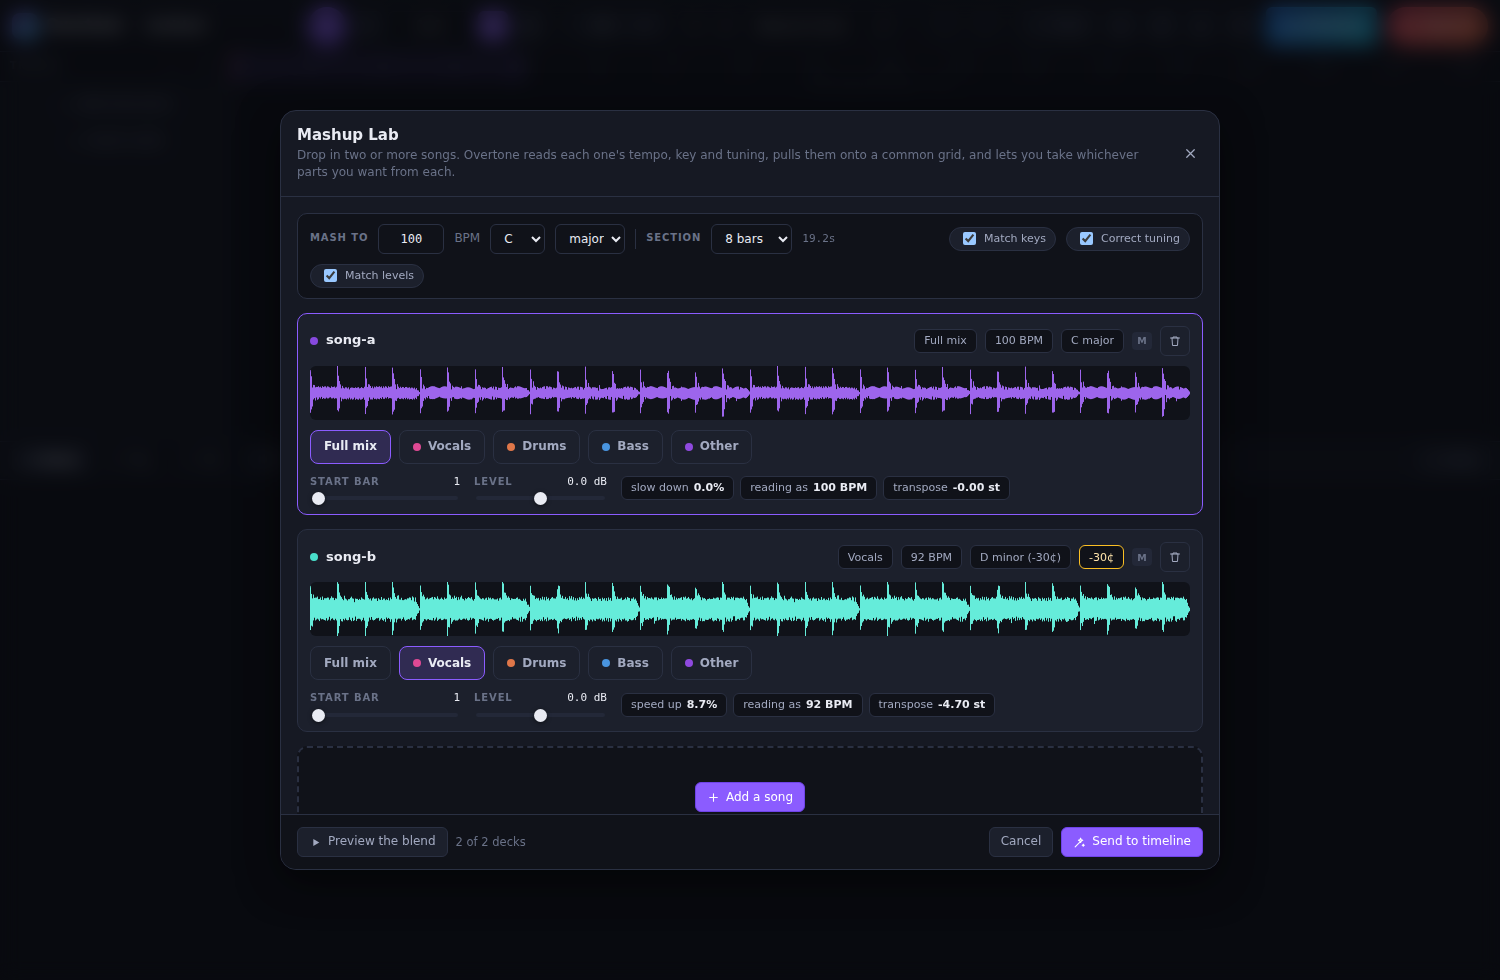
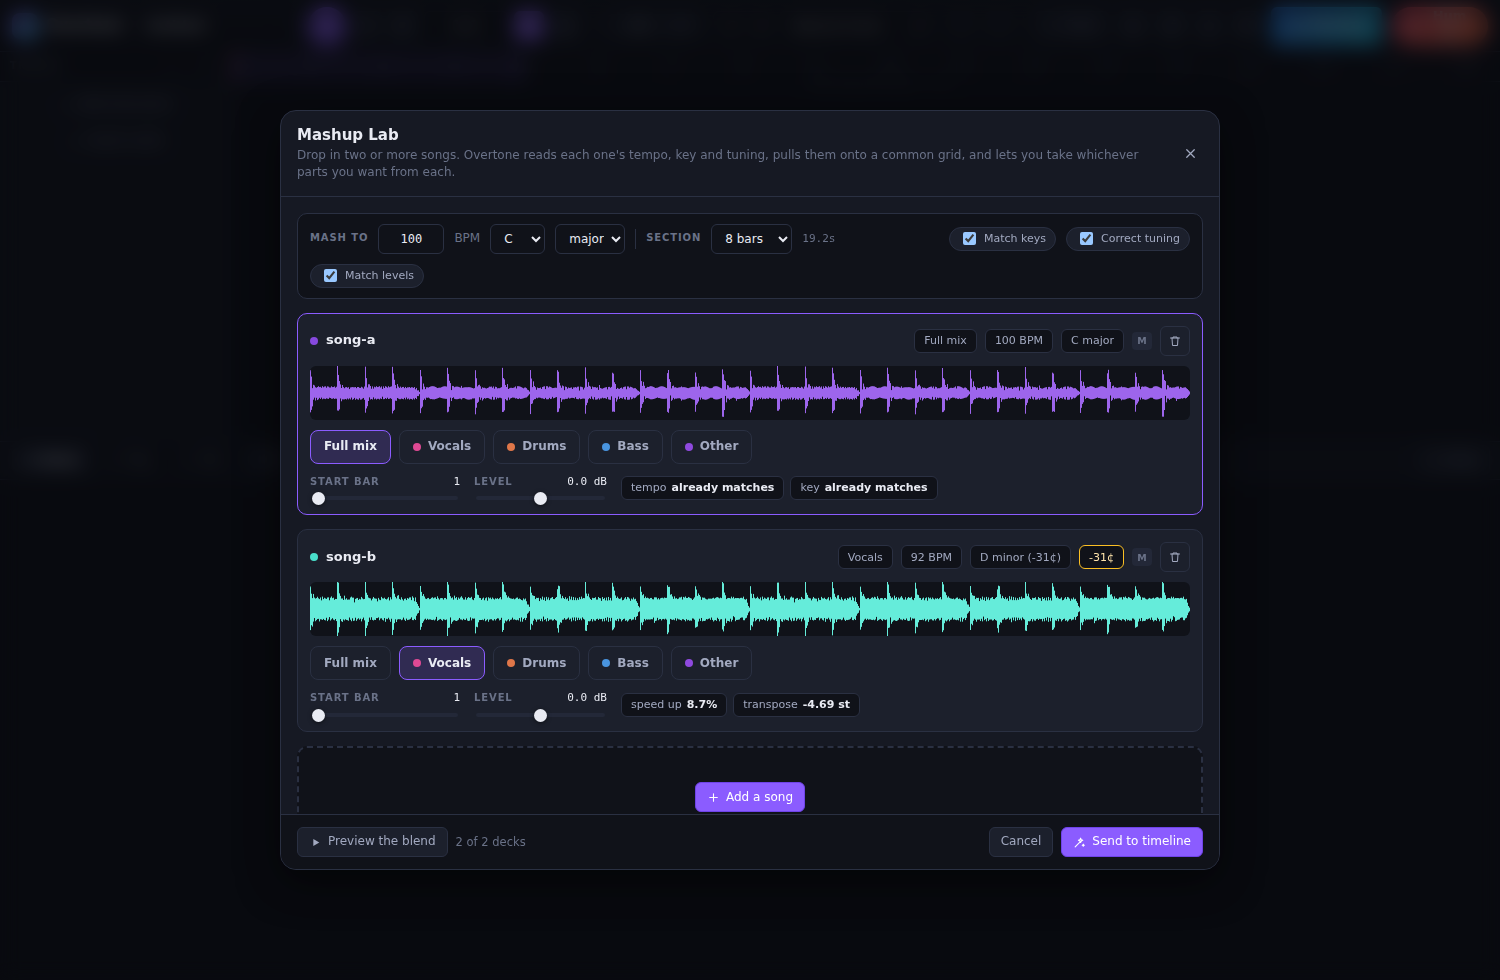
Draw waveforms on every sample, and stop labelling audio tracks with an instrument
Peaks were only computed as part of a full analysis, so audio the app
generated itself — mashup bounces, separated stems, recorded takes —
appeared as blank clips. They are now computed whenever a sample is
created, and backfilled when one is decoded.

That exposed a second problem: peaks are Float32Arrays, and JSON encodes
those as an object with one numbered key per sample. Left alone they
would have added hundreds of kilobytes per file to every bundle, so they
are stripped on the way out and rebuilt on the way back in.

Audio tracks also showed "Grand Piano" from the unused presetId field,
and offered to change an instrument they don't have.

100 unit tests; 25 smoke, 11 hum, 9 chords, 22 audio, 19 mashup.

Claude-Session: https://claude.ai/code/session_01LA28Aut5jQZVKPUSSNBBkf

Changed region(s): [[0.4293, 0.4898, 0.6747, 0.5204], [0.4907, 0.7041, 0.644, 0.7347], [0.3067, 0.0, 0.368, 0.0612]]

diff --git a/src/lib/samples.ts b/src/lib/samples.ts
@@ -9,7 +9,7 @@
  * demand, so reopening a project doesn't have to hold every song in RAM.
  */
 
-import type { AudioAnalysis } from '../audio/analysis/audio'
+import { computePeaks, type AudioAnalysis } from '../audio/analysis/audio'
 import { uid } from './id'
 import { decodeWav, encodeWav } from './wav'
 
@@ -30,7 +30,18 @@ export interface SampleMeta {
   /** Set when this sample was derived from another (a separated stem). */
   sourceId?: string
   stem?: string
+  /**
+   * Min/max pairs for drawing. Kept on the meta rather than only inside
+   * `analysis`, because audio generated in-app (stems, mashup bounces,
+   * recordings) needs a waveform immediately and may never be fully analysed.
+   */
+  peaks?: Float32Array
   analysis?: AudioAnalysis
+}
+
+/** Peaks for drawing, wherever they happen to live. */
+export function samplePeaks(meta: SampleMeta | undefined): Float32Array | undefined {
+  return meta?.peaks ?? meta?.analysis?.peaks
 }
 
 // ---------------------------------------------------------------------------
@@ -159,6 +170,8 @@ export async function importAudioFile(
     byteSize: bytes.byteLength,
     mime: file.type || 'audio/wav',
     createdAt: Date.now(),
+    // Draw something straight away; full analysis follows in a worker.
+    peaks: computePeaks(buffer.getChannelData(0)),
   }
 
   rememberSample(meta, buffer)
@@ -182,6 +195,7 @@ export async function createSample(
     byteSize: blob.size,
     mime: 'audio/wav',
     createdAt: Date.now(),
+    peaks: computePeaks(channels[0]),
     ...extra,
   }
   rememberSample(meta, buffer)
@@ -237,6 +251,7 @@ export function ensureSample(ctx: BaseAudioContext, id: string): Promise<AudioBu
     try {
       const buffer = await ctx.decodeAudioData(bytes.slice(0))
       buffers.set(id, buffer)
+      backfillPeaks(id, buffer)
       return buffer
     } catch {
       // Fall back to the built-in WAV reader for anything the platform
@@ -245,6 +260,7 @@ export function ensureSample(ctx: BaseAudioContext, id: string): Promise<AudioBu
       if (!pcm) return null
       const buffer = channelsToBuffer(ctx, pcm.channels, pcm.sampleRate)
       buffers.set(id, buffer)
+      backfillPeaks(id, buffer)
       return buffer
     } finally {
       pending.delete(id)
@@ -253,6 +269,17 @@ export function ensureSample(ctx: BaseAudioContext, id: string): Promise<AudioBu
 
   pending.set(id, load)
   return load
+}
+
+/**
+ * Peaks are dropped when a sample travels (they don't survive JSON), so they
+ * are rebuilt the first time the audio is decoded again.
+ */
+function backfillPeaks(id: string, buffer: AudioBuffer) {
+  const meta = metas.get(id)
+  if (!meta || (meta.peaks && meta.peaks.length > 0)) return
+  meta.peaks = computePeaks(buffer.getChannelData(0))
+  metas.set(id, meta)
 }
 
 /** Load every sample a project refers to. Returns the ids it couldn't find. */

diff --git a/src/ui/components/Arrangement.tsx b/src/ui/components/Arrangement.tsx
@@ -5,7 +5,7 @@ import {
   audioClipLengthBeats, audioClipsForTrack, clipsForTrack,
   type AudioClip, type Clip, type Track,
 } from '../../music/project'
-import { getSampleMeta } from '../../lib/samples'
+import { getSampleMeta, samplePeaks } from '../../lib/samples'
 import { importAudioIntoProject, looksLikeAudio } from '../../lib/importAudio'
 import { Waveform } from './Waveform'
 import { useStore } from '../../state/store'
@@ -280,13 +280,17 @@ function TrackHead({ track, selected, playing }: { track: Track; selected: boole
       </div>
 
       <div className="track-btns">
-        <button
-          className="track-inst"
-          onClick={(e) => { e.stopPropagation(); setUI({ instrumentPickerFor: track.id }) }}
-          title="Change instrument"
-        >
-          {preset.name}
-        </button>
+        {track.kind === 'audio' ? (
+          <span className="track-inst" style={{ cursor: 'default' }}>Audio</span>
+        ) : (
+          <button
+            className="track-inst"
+            onClick={(e) => { e.stopPropagation(); setUI({ instrumentPickerFor: track.id }) }}
+            title="Change instrument"
+          >
+            {preset.name}
+          </button>
+        )}
         <div className="spacer" />
         <button
           className={`mini ${track.muted ? 'on' : ''}`}
@@ -442,7 +446,7 @@ function AudioClipView({ clip, hue, bpm, ppb, selected, snapBeat }: {
       </div>
       <div className="clip-wave">
         <Waveform
-          peaks={meta?.analysis?.peaks}
+          peaks={samplePeaks(meta)}
           from={clip.reverse ? 1 - to : from}
           to={clip.reverse ? 1 - from : to}
           height={34}

diff --git a/src/lib/bundle.ts b/src/lib/bundle.ts
@@ -27,6 +27,18 @@ interface BundleHeader {
   samples: { meta: SampleMeta; byteLength: number }[]
 }
 
+/**
+ * Waveform peaks are Float32Arrays. JSON turns those into objects with one
+ * numbered key per sample — thousands of them, per file — so they are stripped
+ * on the way out and recomputed when the audio is next decoded.
+ */
+function stripDrawingData(meta: SampleMeta): SampleMeta {
+  const { peaks: _peaks, analysis, ...rest } = meta
+  return analysis
+    ? { ...rest, analysis: { ...analysis, peaks: new Float32Array(0) } }
+    : rest
+}
+
 /** Pack a project and every sample it uses into one blob. */
 export async function createBundle(project: Project): Promise<Blob> {
   const ids = projectSampleIds(project)
@@ -37,7 +49,7 @@ export async function createBundle(project: Project): Promise<Blob> {
     const blob = await getSampleBlob(id)
     const meta = getSampleMeta(id)
     if (!blob || !meta) continue
-    samples.push({ meta, byteLength: blob.size })
+    samples.push({ meta: stripDrawingData(meta), byteLength: blob.size })
     parts.push(blob)
   }
 

diff --git a/src/ui/components/AudioClipEditor.tsx b/src/ui/components/AudioClipEditor.tsx
@@ -4,7 +4,7 @@ import { separateStemsInWorker } from '../../audio/workers'
 import { STEM_NAMES, type StemName } from '../../audio/spectral/stems'
 import { describeKey } from '../../lib/importAudio'
 import {
-  bufferToChannels, createSample, ensureSample, getSampleBuffer, getSampleMeta,
+  bufferToChannels, createSample, ensureSample, getSampleBuffer, getSampleMeta, samplePeaks,
 } from '../../lib/samples'
 import { audioClipLengthBeats, type AudioClip, type Track } from '../../music/project'
 import { planMatch, tempoStrain, toKeySpec } from '../../music/matching'
@@ -122,7 +122,7 @@ export function AudioClipEditor({ clip, track }: { clip: AudioClip; track: Track
 
       <div className="wave-panel">
         <Waveform
-          peaks={analysis?.peaks}
+          peaks={samplePeaks(meta)}
           from={clip.offsetSec / total}
           to={Math.min(1, (clip.offsetSec + clip.sourceDurationSec) / total)}
           height={90}

diff --git a/src/lib/__tests__/bundle.test.ts b/src/lib/__tests__/bundle.test.ts
@@ -97,3 +97,21 @@ describe('bundle format', () => {
     expect(bundleFilename(emptyProject('***'))).toBe('overtone.overtone')
   })
 })
+
+describe('bundle size', () => {
+  it('does not serialise waveform peaks into the header', async () => {
+    // A Float32Array JSON-encodes as an object with one key per sample, which
+    // would add hundreds of kilobytes per file to every bundle.
+    const { createBundle } = await import('../bundle')
+    const { rememberSample } = await import('../samples')
+    const project = emptyProject('Peaky')
+    rememberSample({
+      id: 's-peaks', name: 'Big', durationSec: 1, sampleRate: 44100, channels: 1,
+      byteSize: 10, mime: 'audio/wav', createdAt: 1,
+      peaks: new Float32Array(4000).fill(0.5),
+    })
+    // No audio clips reference it, so the bundle should be tiny regardless.
+    const bundle = await createBundle(project)
+    expect(bundle.size).toBeLessThan(4000)
+  })
+})

diff --git a/src/ui/components/MashupLab.tsx b/src/ui/components/MashupLab.tsx
@@ -9,7 +9,7 @@ import {
 } from '../../lib/mashup'
 import {
   bufferToChannels, createSample, ensureSample, getSampleBuffer, importAudioFile,
-  knownSamples, updateSampleMeta,
+  knownSamples, samplePeaks, updateSampleMeta,
 } from '../../lib/samples'
 import { toKeySpec } from '../../music/matching'
 import { NOTE_NAMES } from '../../music/theory'
@@ -414,7 +414,7 @@ export function MashupLab({ onClose }: { onClose(): void }) {
 
                   <div className="deck-wave">
                     <Waveform
-                      peaks={deck.analysis.peaks}
+                      peaks={samplePeaks(deck.meta) ?? deck.analysis.peaks}
                       height={54}
                       color={`hsl(${hue} 78% 66%)`}
                     />
